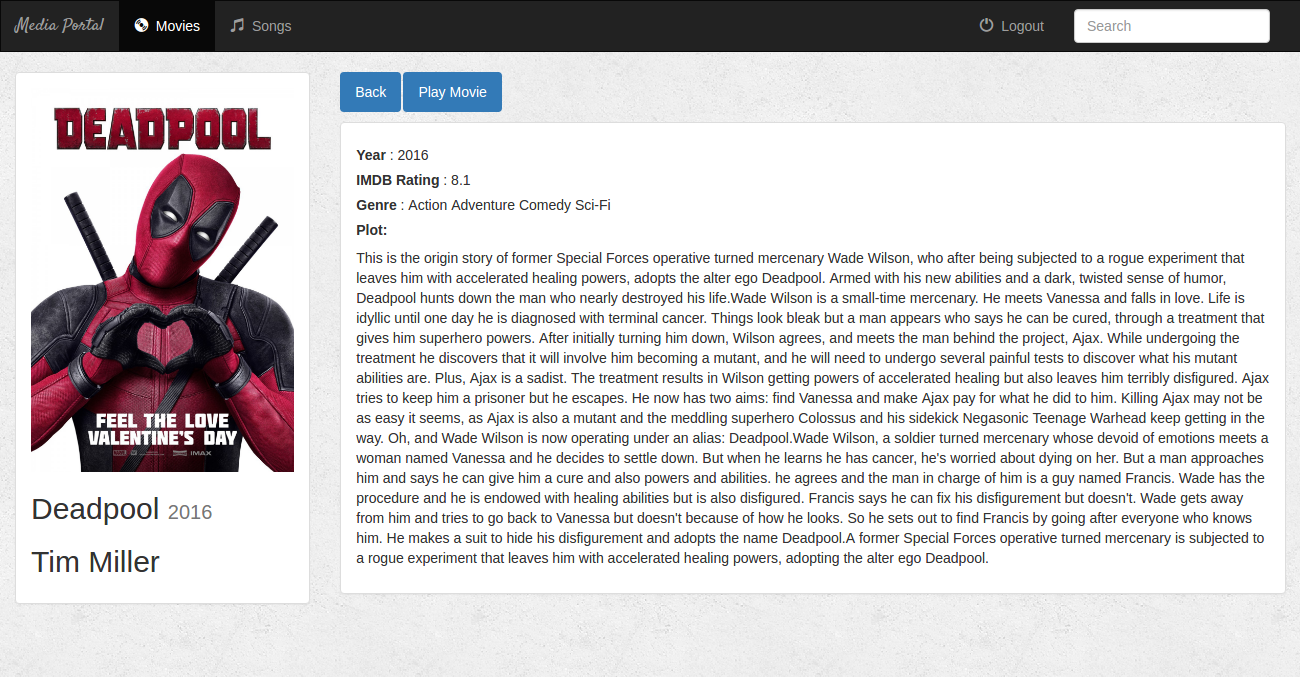
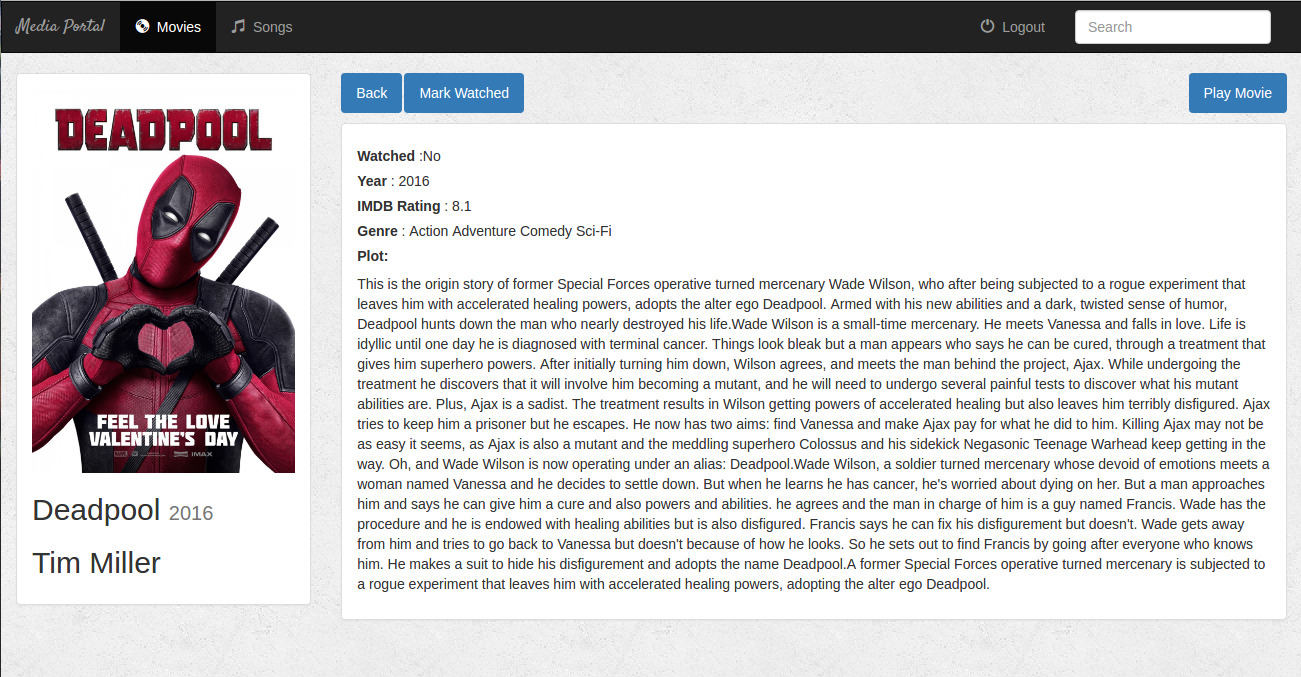
Watch/Unwatch Movies

diff --git a/Movies/templates/details.html b/Movies/templates/details.html
@@ -27,11 +27,19 @@
 
             <ul class="nav nav-pills" style="margin-bottom: 10px;">
                 <li role="presentation" class="active"><a href="{% url 'index' %}">Back</a></li>
-                <li role="presentation" class="active"><a href="{% url 'Movies:play' movie.id %}">Play Movie</a></li>
+                <li role="presentation" class="active"><a href="{% url 'Movies:watched' movie.id %}">
+                  {% if movie.Watched %}
+                  Mark Unwatched
+                  {% else %}
+                  Mark Watched
+                  {% endif %}
+                </a></li>
+                <li role="presentation" class="active pull-right"><a href="{% url 'Movies:play' movie.id %}">Play Movie</a></li>
             </ul>
 
             <div class="panel panel-default">
                 <div class="panel-body">
+                    <h5><strong>Watched</strong> :{% if movie.Watched %}Yes{% else %}No{% endif %}</h5>
                     <h5><strong>Year</strong> : {{ movie.Year }}</h5>
                     <h5><strong>IMDB Rating</strong> : {{ movie.Imdb_rating }}</h5>
                     <h5><strong>Genre</strong> : {{ movie.Genre }}</h5>

diff --git a/Movies/templates/main.html b/Movies/templates/main.html
@@ -25,8 +25,8 @@
                             <!-- View Details -->
                             <a href="{% url 'Movies:detail' movie.id %}" class="btn btn-primary btn-sm" role="button">View Details</a>
                             <!-- Favorite Album -->
-                            <a href="" class="btn btn-default btn-sm btn-favorite" role="button">
-                                <span class="glyphicon glyphicon-star {% if movie.is_favorite %}active{% endif %}"></span>
+                            <a href="{% url 'Movies:watched' movie.id %}" class="btn btn-default btn-sm btn-favorite" role="button">
+                                <span class="glyphicon glyphicon-star{% if not movie.Watched %}-empty{% endif %}"></span>
                             </a>
 
                         </div>

diff --git a/Movies/views.py b/Movies/views.py
@@ -4,6 +4,7 @@ from django.contrib.auth.models import User
 
 from .models import Movie
 import os
+import re
 
 def index(request):
     if 'user' in request.session:
@@ -73,9 +74,21 @@ def search_movie(request):
         if request.method == 'POST':
             if not request.POST['search']:
                 return redirect('logged_in')
-            list1=Movie.objects.filter(Name__contains=request.POST['search'])
-            list2=Movie.objects.filter(Year__contains=request.POST['search'])
-            list3=Movie.objects.filter(Genre__contains=request.POST['search'])
+            if '-w' in request.POST['search']:
+                Q=re.findall('(.*)\s+-w',request.POST['search'])
+                if not Q:
+                    movies=Movie.objects.filter(Watched=False)
+                    return render(request,'main.html',{'movies':movies})
+                else:
+                    Q=Q[0]
+                    list1=Movie.objects.filter(Name__contains=Q,Watched=False)
+                    list2=Movie.objects.filter(Year__contains=Q,Watched=False)
+                    list3=Movie.objects.filter(Genre__contains=Q,Watched=False)
+            else:
+                Q=request.POST['search']
+                list1=Movie.objects.filter(Name__contains=Q)
+                list2=Movie.objects.filter(Year__contains=Q)
+                list3=Movie.objects.filter(Genre__contains=Q)
             res=list(set(list1)^set(list2)^set(list3))
             context={
                 'movies':res,
@@ -87,4 +100,14 @@ def Play_movie(request,movie_id):
         movie=get_object_or_404(Movie,id=movie_id)
         os.system('xdg-open '+'"'+movie.Path+'"')
         return render(request,'details.html',{'movie':movie})
+    return redirect('logged_in')
+
+def Watched(request,movie_id):
+    if request.user.is_authenticated():
+        movie=get_object_or_404(Movie,id=movie_id)
+        if movie.Watched:
+            movie.Watched=False
+        else:
+            movie.Watched=True
+        movie.save()
     return redirect('logged_in')

diff --git a/Movies/migrations/0008_auto_20160719_1239.py b/Movies/migrations/0008_auto_20160719_1239.py
@@ -1,0 +1,20 @@
+# -*- coding: utf-8 -*-
+# Generated by Django 1.9.7 on 2016-07-19 12:39
+from __future__ import unicode_literals
+
+from django.db import migrations
+
+
+class Migration(migrations.Migration):
+
+    dependencies = [
+        ('Movies', '0007_auto_20160717_2015'),
+    ]
+
+    operations = [
+        migrations.RenameField(
+            model_name='movie',
+            old_name='is_favorite',
+            new_name='Watched',
+        ),
+    ]

diff --git a/Movies/models.py b/Movies/models.py
@@ -13,7 +13,7 @@ class Movie(models.Model):
     Director=models.CharField(max_length=50,default=None)
     Poster=models.FileField()
     Path=models.CharField(max_length=100)
-    is_favorite=models.BooleanField(default=False)
+    Watched=models.BooleanField(default=False)
 
     def __str__(self):
         return self.Name

diff --git a/Movies/urls.py b/Movies/urls.py
@@ -8,5 +8,7 @@ urlpatterns = [
     url(r'^(?P<movie_id>[0-9]+)/$',views.detail,name="detail"),
     #movies/<movie_id>/play/
     url(r'^(?P<movie_id>[0-9]+)/play/$',views.Play_movie,name="play"),
+    #movies/<movie_id>/watched/
+    url(r'^(?P<movie_id>[0-9]+)/watched/$',views.Watched,name="watched"),
 
 ]
